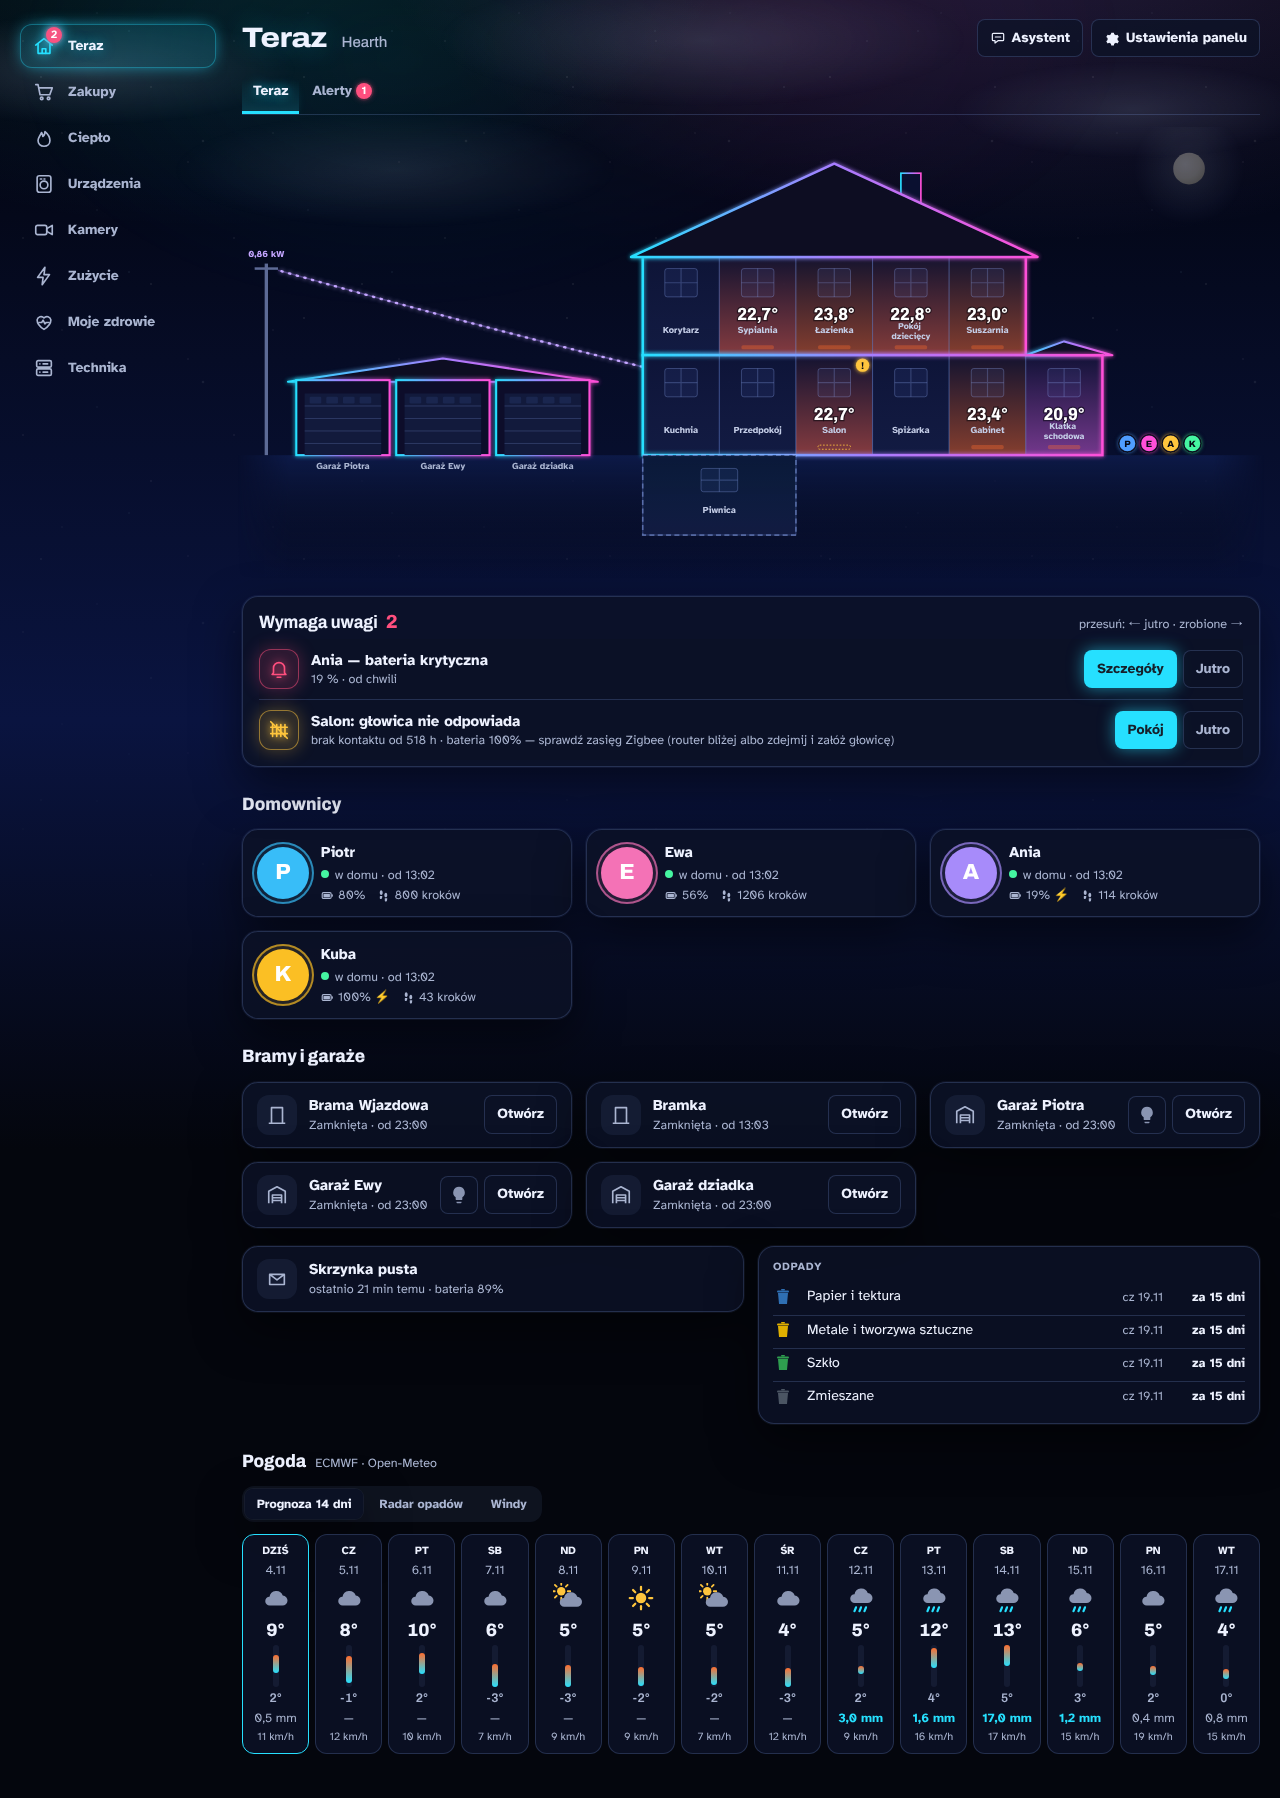
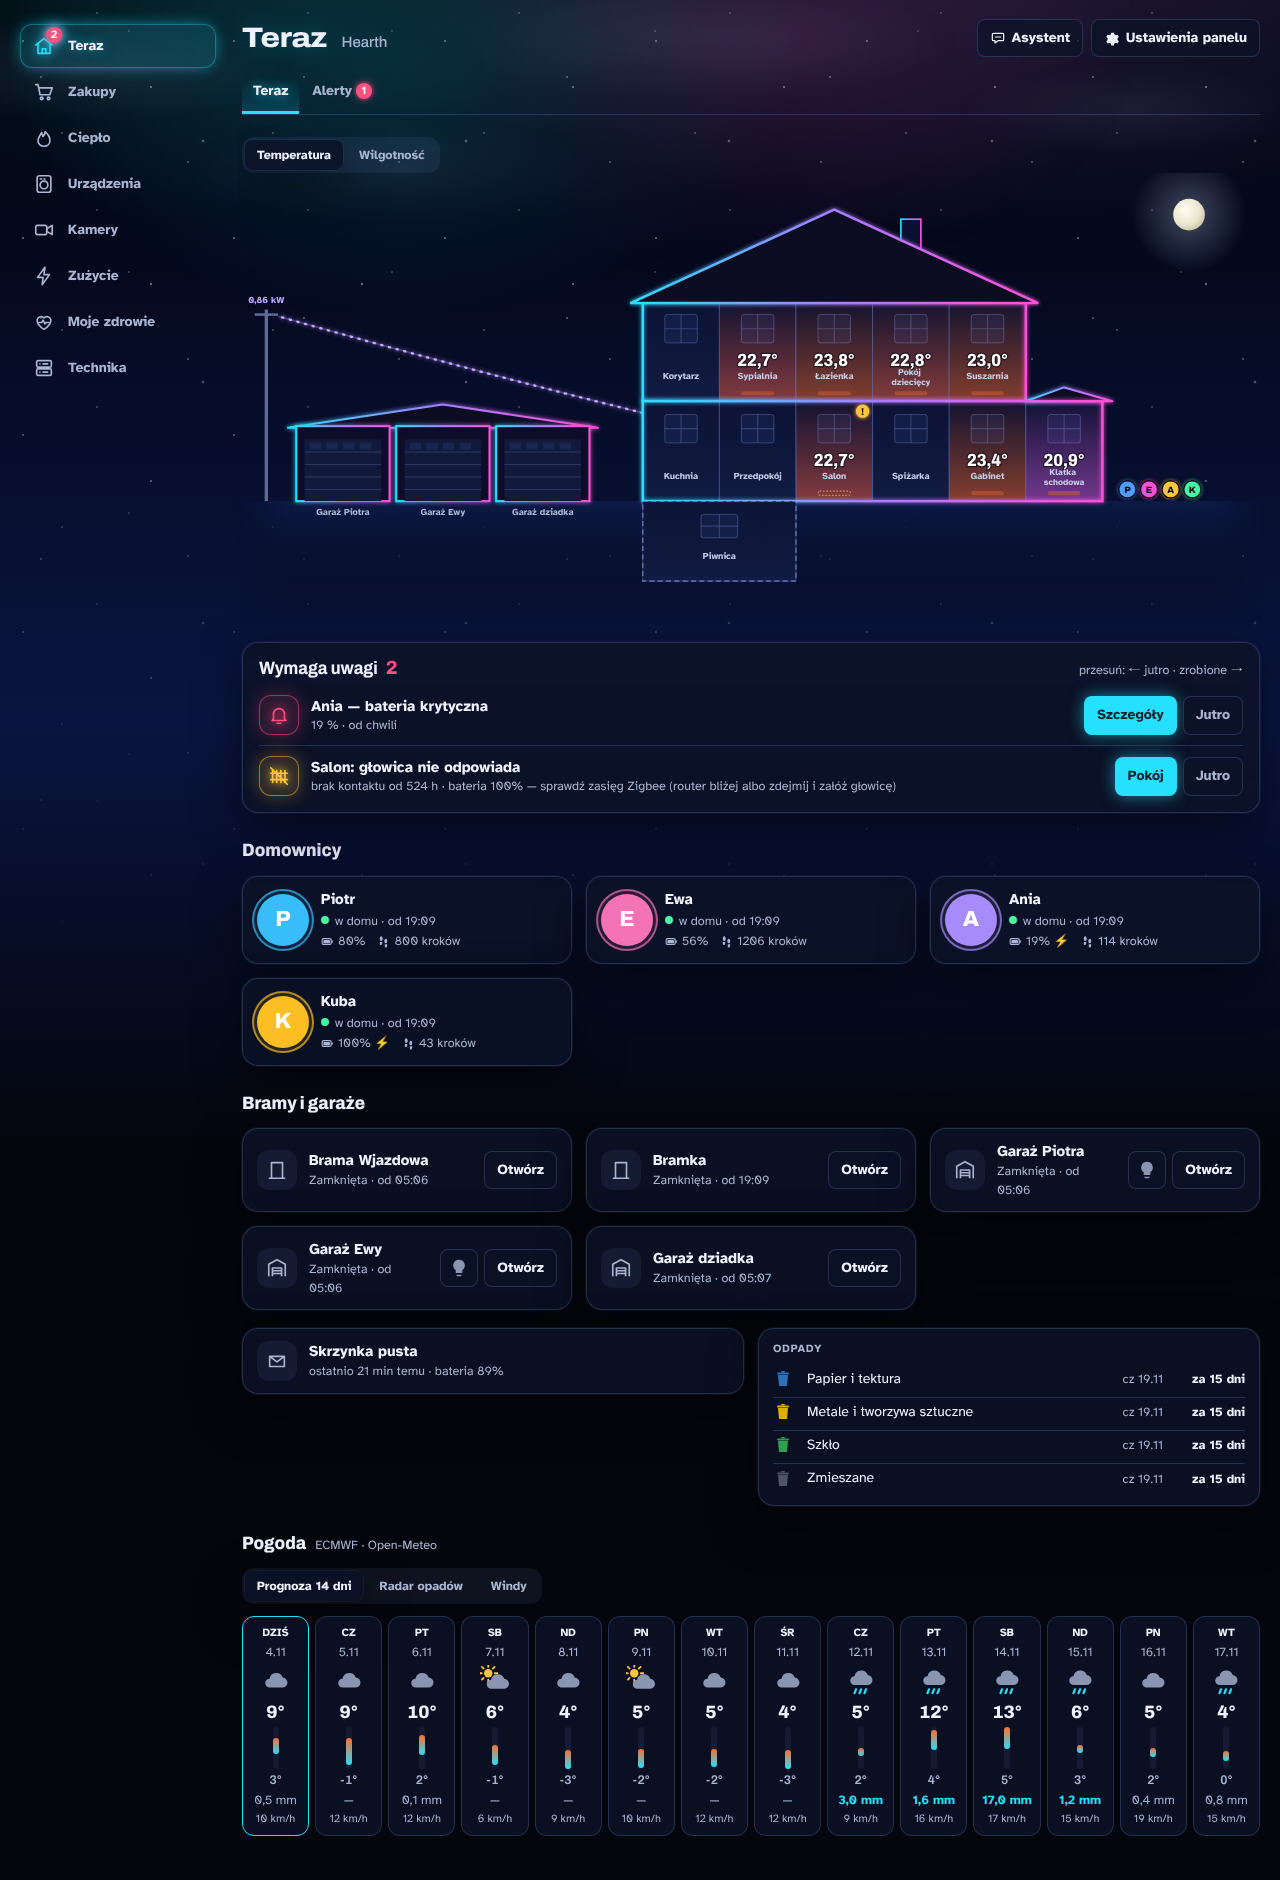
Wydanie 0.22.0: wilgotność w Żywym domu (przełącznik warstwy, kropla „od ponad 2 h”)
Zbiorcza sekcja CHANGELOG z 0.22.0-beta.1, zrzut Neon w README z przełącznikiem,
wersja 0.22.0 w manifest.json i package.json.

diff --git a/CHANGELOG.md b/CHANGELOG.md
@@ -7,6 +7,17 @@ projekt stosuje [wersjonowanie semantyczne](https://semver.org/lang/pl/).
 
 ## [Unreleased]
 
+## [0.22.0] - 2026-11-04
+
+Wilgotność w Żywym domu — zbiorczo z 0.22.0-beta.1 (szczegóły niżej). Zmienił się tylko panel: wystarczy odświeżyć go w przeglądarce.
+
+### Dodano
+- **Żywy dom: przełącznik *Temperatura | Wilgotność*** nad domem (wybór pamięta urządzenie) — warstwa wilgotności koloruje pokoje (sucho ≤ 35%, 40–60%, wilgotno ≥ 65%) i pokazuje % zamiast stopni; pokój bez czujnika jest szary.
+- **Kropla przy pokoju** — za wilgotno (pełna niebieska) albo za sucho (pusta piaskowa) bez przerwy od ponad 2 h, z historii czujnika; krótki skok po prysznicu jej nie zapala.
+
+### Zmieniono
+- README: zrzut wyglądu Neon z przełącznikiem warstwy.
+
 ## [0.22.0-beta.1] - 2026-11-04
 
 ### Dodano
